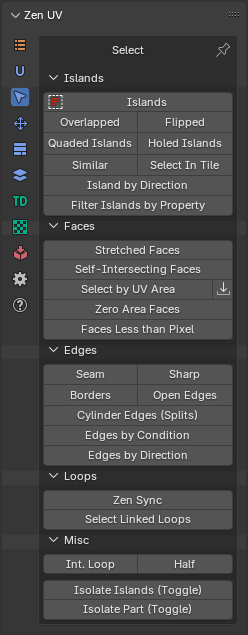
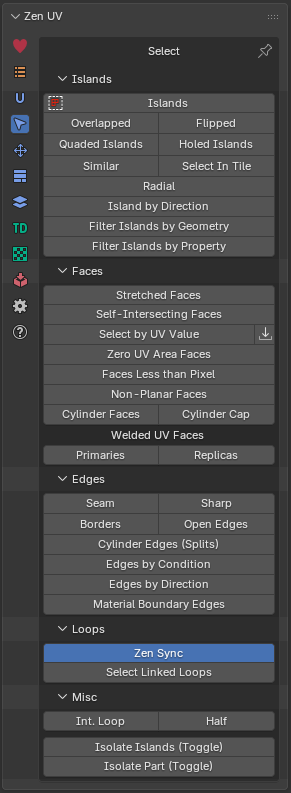
upd select article

diff --git a/mkdocs/select.md b/mkdocs/select.md
@@ -19,6 +19,7 @@
     - [Select Similar](#select-similar)
     - [Select in Tile](#select-in-tile)
     - [Select Islands By Direction](#select-islands-by-direction)
+    - [Filter Islands by Geometry](#filter-islands-by-geometry)
     - [Filter Islands by Property](#filter-islands-by-property)
   - [Faces](#faces)
     - [Select Stretched Faces](#select-stretched-faces)
@@ -28,6 +29,7 @@
     - [Select Zero Area Faces](#select-zero-area-faces)
     - [Select Faces Less than Pixel](#select-faces-less-than-pixel)
     - [Select Faces By Normal](#select-faces-by-normal)
+    - [Select Non-Planar Faces](#select-non-planar-faces)
     - [Select Cylinder Faces](#select-cylinder-faces)
     - [Select Cylinder Cap](#select-cylinder-cap)
   - [Edges](#edges)
@@ -163,6 +165,27 @@ Select island by direction.
     - *Vertical* - Vertically oriented islands
     - *Radial* - Islands that are shaped like a circle
     - *Not Aligned* - Islands that are not aligned with the axes
+
+---
+
+### Filter Islands by Geometry
+
+Selects UV islands based on their topological structure, such as face count or polygon vertex counts.
+
+This operator allows you to quickly isolate specific types of geometry across your model, such as single-face triangles, quads, n-gons, or multi-face complex islands. It is particularly useful for cleanup tasks, quality control, and finding stray or unintended faces before packing or baking.
+
+!!! Properties
+    ![Filter Islands by Geometry Operator Properties](img/screen/select/filter_islands_by_geometry_op_prop.png)
+
+- **Clear Selection** — Clears the existing selection before executing the operator.
+- **Filter Mode** — Select a preset filtering configuration or switch to manual setup:
+    - *Manual* — Allows custom configuration of Face and Vertex filtering parameters.
+    - *Triangles* — Selects single-face islands composed of exactly 3 vertices (Tris).
+    - *Quads* — Selects single-face islands composed of exactly 4 vertices (Quads).
+    - *N-gons* — Selects single-face islands composed of more than 4 vertices (N-gons).
+    - *Multi-face* — Selects complex islands containing more than 1 face.
+- **Face Filter** — Comparison condition (`=`, `>`, `<`, `>=`, `<=`) and target **Face Count** to evaluate per island.
+- **Vertex Filter (for single face)** — Comparison condition (`=`, `>`, `<`, `>=`, `<=`) and target **Vert Count** used to evaluate islands that consist of a single polygon.
 
 ---
 ### Filter Islands by Property
@@ -311,6 +334,20 @@ This way, you can select polygons that are "not visible" from the position of th
         - *All* - Selects all polygons that match the reference normal.
     - **Reverse Ref. Normal** - Reverses the reference normal direction.
     - **Threshold** - Controls the accuracy of normal alignment (acts as an angular tolerance).
+
+---
+### Select Non-Planar Faces
+
+Selects mesh faces where internal tessellated triangles deviate from the overall face normal (such as bent quads or distorted n-gons).
+
+This operator helps identify non-flat geometry across the model that could cause unwanted shading artifacts, improper UV unwrapping, or distortion during baking.
+
+!!! Properties
+    ![Select Non-Planar Faces Operator Properties](img/screen/select/select_non_planar_faces_op_prop.png)
+
+- **Clear Selection** — Clears the existing selection before executing the operation.
+- **Angle Threshold** — Tolerance angle (in degrees) for the planarity check. Faces with internal triangular deviations exceeding this angle are selected.
+- **N-gons Only** — Limits the selection exclusively to n-gons (polygons with more than 4 edges).
 
 ---
 ### Select Cylinder Faces
